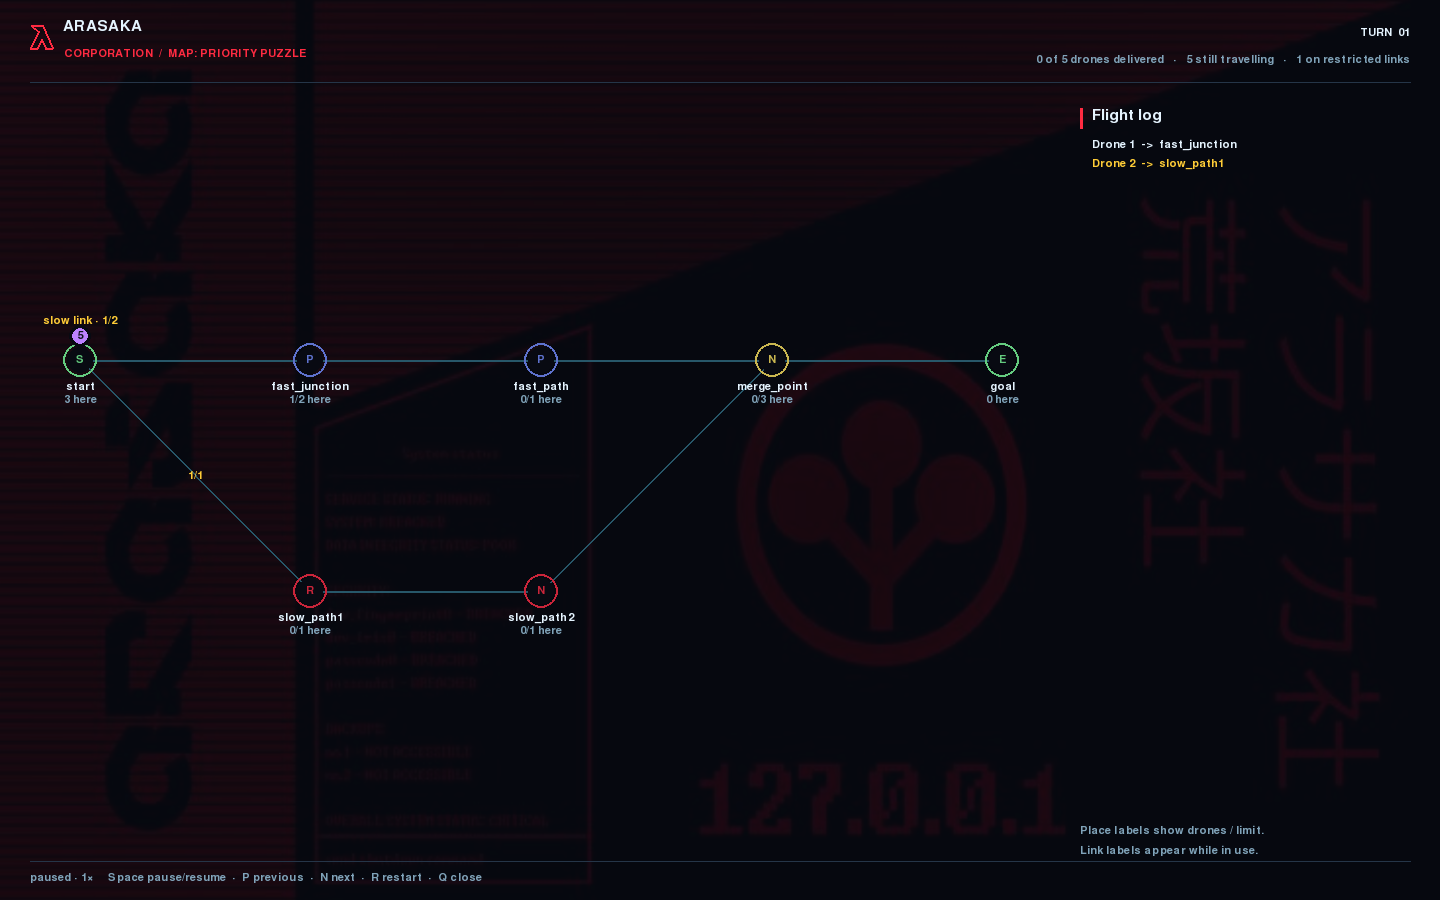
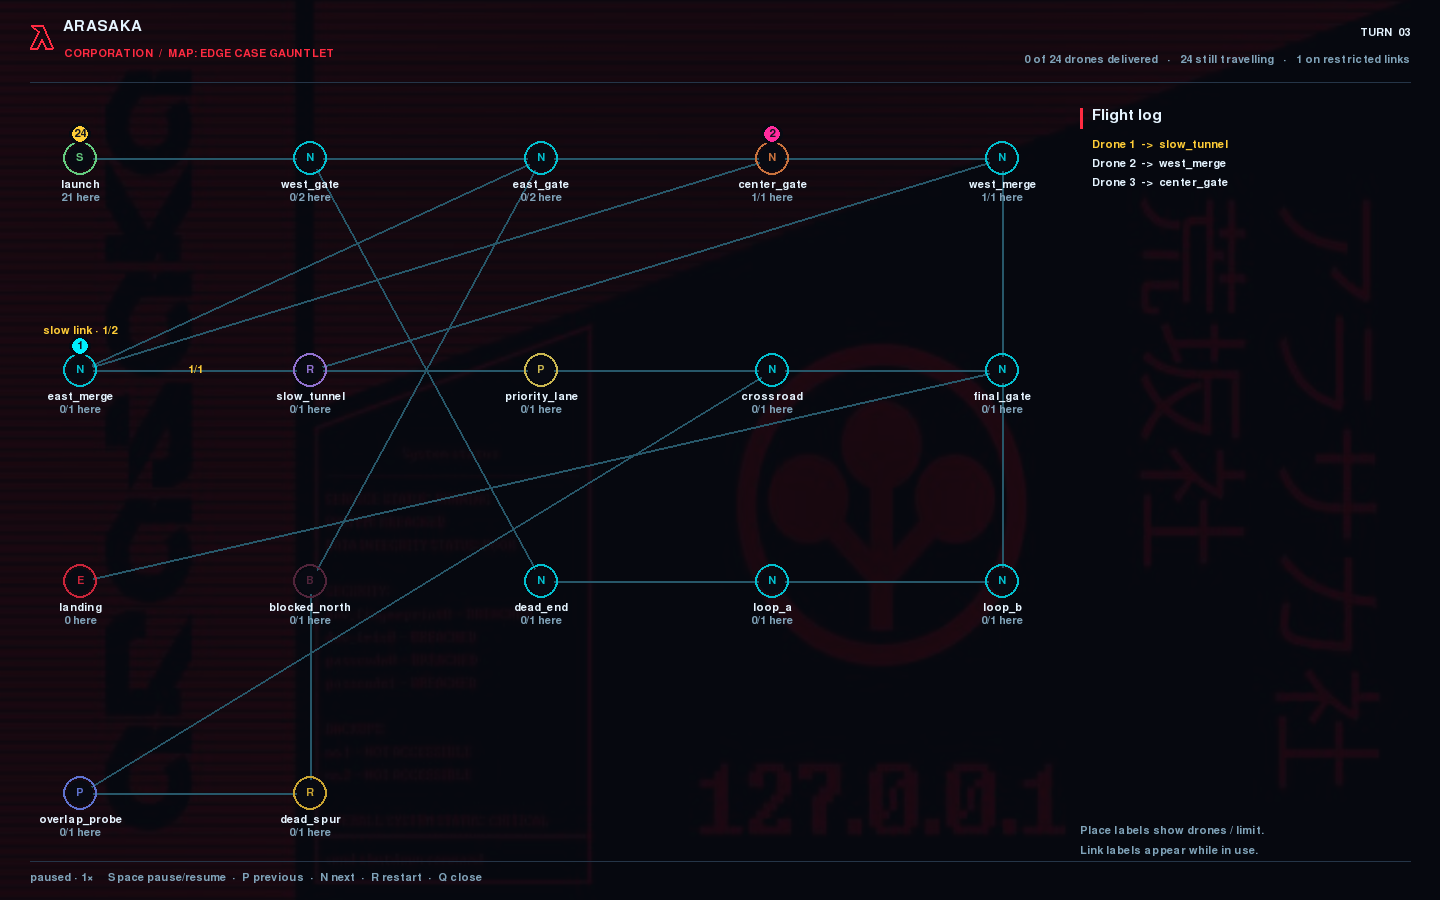
fix: bad images for README.md

diff --git a/README.md b/README.md
@@ -16,13 +16,13 @@
 
 ## Capturas de la simulación
 
-Estas imágenes salen de fotogramas reales del motor al ejecutar `03_priority_puzzle.txt`: muestran la flota en movimiento, un dron cruzando una zona restringida y la llegada. La interfaz usa una paleta de neón y el entorno visual de Arasaka, inspirado en *Cyberpunk 2077*, uno de mis juegos favoritos.
+Estas son capturas reales tomadas durante distintas ejecuciones de la simulación. La interfaz usa una paleta de neón y el entorno visual de Arasaka, inspirado en *Cyberpunk 2077*, uno de mis juegos favoritos.
 
-![Flota de drones avanzando por el mapa Priority Puzzle](assets/screenshots/01-fleet-in-motion.png)
+![Flota de drones avanzando por una red con rutas alternativas](assets/screenshots/01-fleet-in-motion.png)
 
 ![Dron en tránsito por una conexión restringida](assets/screenshots/02-restricted-transit.png)
 
-![Estado final de la simulación tras la llegada](assets/screenshots/03-arrival.png)
+![Flota de drones avanzando por una red con cuellos de botella](assets/screenshots/03-arrival.png)
 
 Para volver a generar las capturas desde el historial del motor:
 
